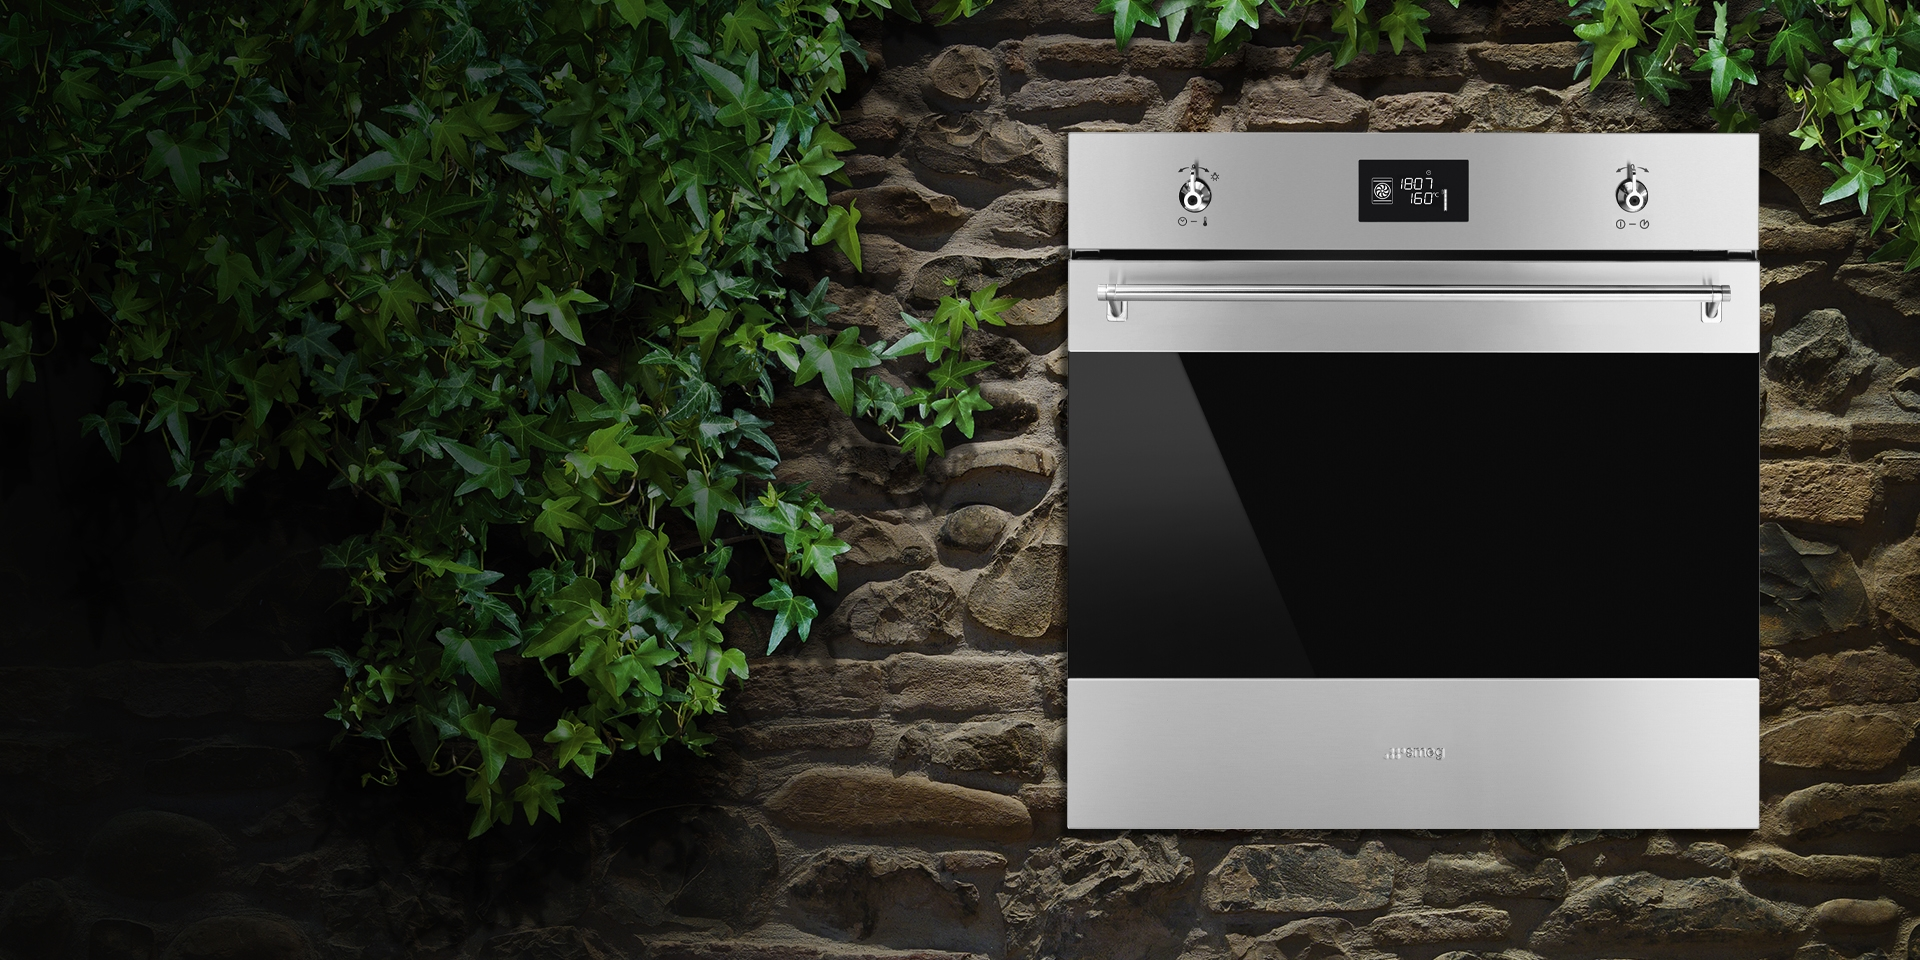
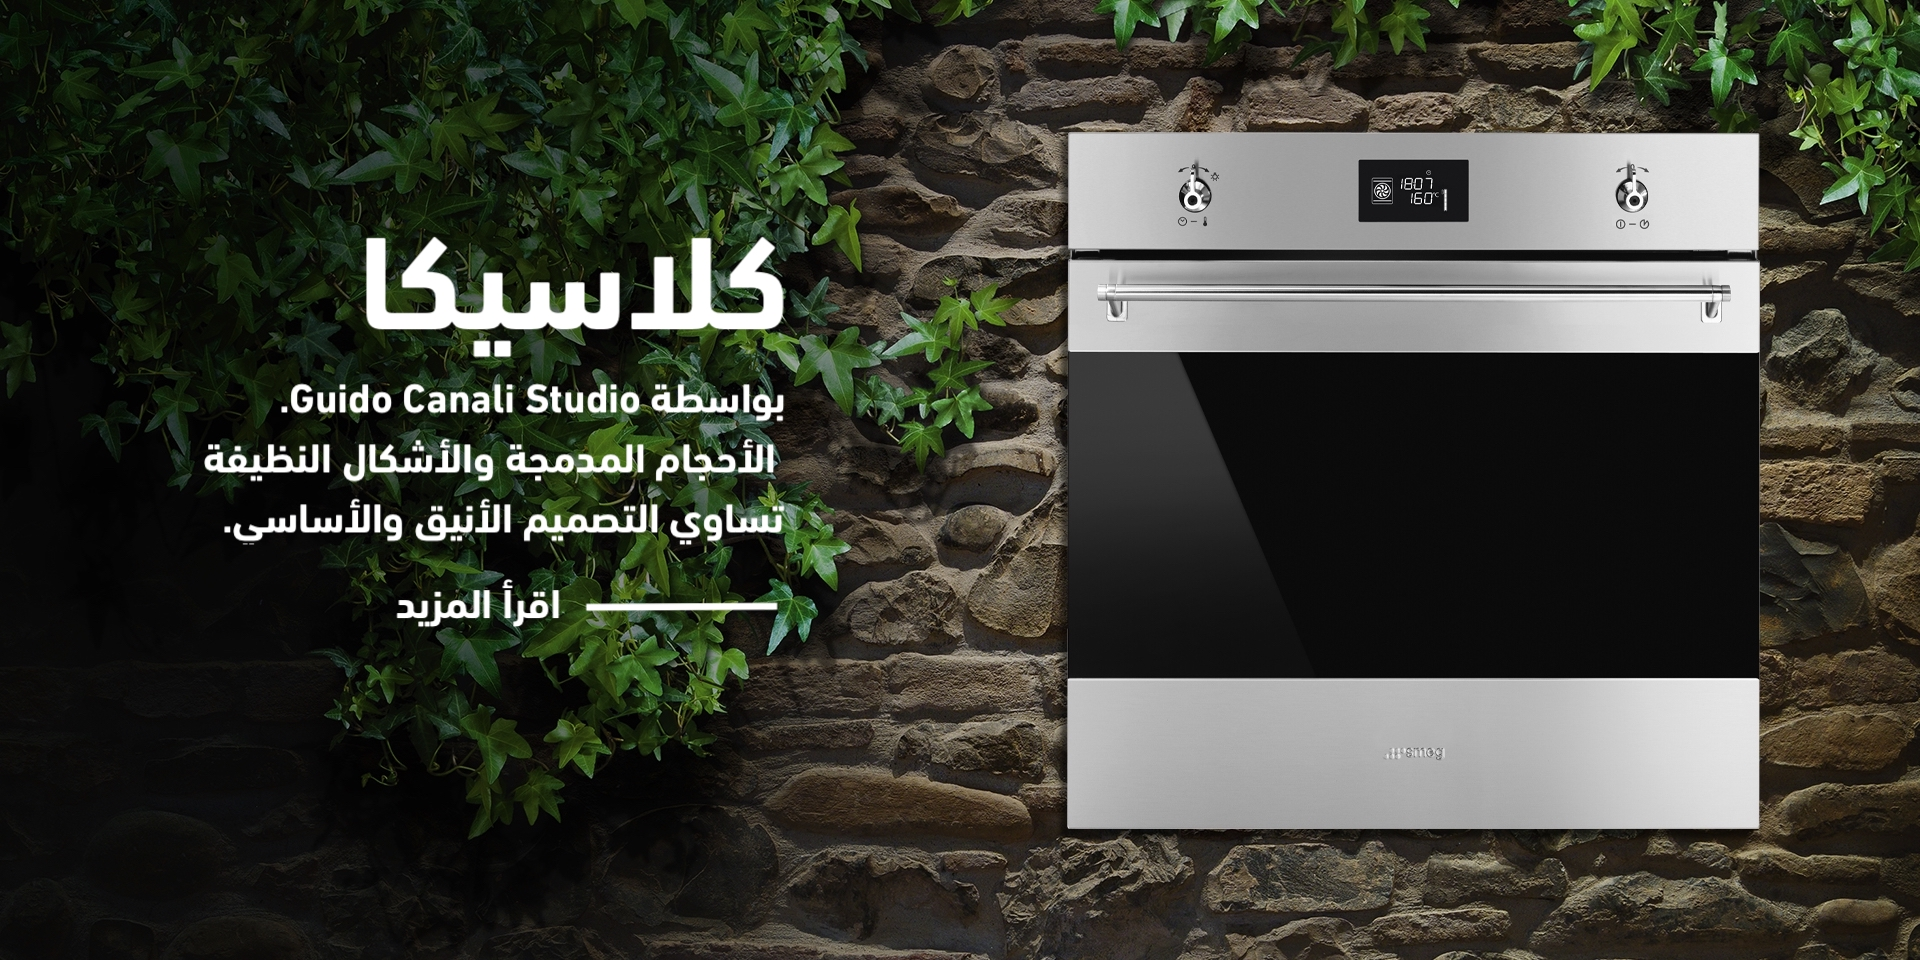
edits

Changed region(s): [[0.0938, 0.4062, 0.4062, 0.5625], [0.1875, 0.25, 0.4062, 0.375], [0.1875, 0.5938, 0.4062, 0.6562]]

diff --git a/grid.html b/grid.html
@@ -185,7 +185,7 @@
             </a>
           </div>
           <div class="product_desc">
-           <p class="title"> لوريم إيبسوم</p>
+           <p class="title"> أفران </p>
            <div class="list_content">
                <h4 class="bottom30">Sacrificial Chair Design </h4>
            </div>
@@ -200,7 +200,7 @@
             </a>
           </div>
           <div class="product_desc">
-           <p class="title">product name zyx </p>
+           <p class="title"> أفران مايكرويف </p>
            <div class="list_content">
                <h4 class="bottom30">Sacrificial Chair Design </h4>
            </div>
@@ -215,7 +215,7 @@
             </a>
           </div>
           <div class="product_desc">
-           <p class="title">product name zyx </p>
+           <p class="title"> شفاطة هواء </p>
            <div class="list_content">
                <h4 class="bottom30">Sacrificial Chair Design </h4>
            </div>
@@ -230,7 +230,7 @@
             </a>
           </div>
           <div class="product_desc">
-           <p class="title">product name zyx </p>
+           <p class="title"> ماكينات القهوة المدمجة </p>
            <div class="list_content">
                <h4 class="bottom30">Sacrificial Chair Design </h4>
            </div>
@@ -245,7 +245,7 @@
             </a>
           </div>
           <div class="product_desc">
-           <p class="title">product name zyx </p>
+           <p class="title"> مجففات مدمجة </p>
            <div class="list_content">
                <h4 class="bottom30">Sacrificial Chair Design </h4>
            </div>
@@ -260,7 +260,7 @@
             </a>
           </div>
           <div class="product_desc">
-           <p class="title">product name zyx </p>
+           <p class="title"> غاز </p>
            <div class="list_content">
                <h4 class="bottom30">Sacrificial Chair Design </h4>
            </div>
@@ -275,7 +275,7 @@
             </a>
           </div>
           <div class="product_desc">
-           <p class="title">product name zyx </p>
+           <p class="title"> فرن مع غاز </p>
            <div class="list_content">
                <h4 class="bottom30">Sacrificial Chair Design </h4>
            </div>
@@ -290,7 +290,7 @@
             </a>
           </div>
           <div class="product_desc">
-           <p class="title">product name zyx </p>
+           <p class="title"> شفاطة هواء </p>
            <div class="list_content">
                <h4 class="bottom30">Sacrificial Chair Design </h4>
            </div>

diff --git a/grid2.html b/grid2.html
@@ -184,7 +184,7 @@
             </a>
           </div>
           <div class="product_desc">
-           <p class="title"> لوريم إيبسوم</p>
+           <p class="title"> مطاحن القهوة  </p>
            <div class="list_content">
                <h4 class="bottom30">Sacrificial Chair Design </h4>
            </div>
@@ -199,7 +199,7 @@
             </a>
           </div>
           <div class="product_desc">
-           <p class="title">product name zyx </p>
+           <p class="title"> مكاينات قهوة</p>
            <div class="list_content">
                <h4 class="bottom30">Sacrificial Chair Design </h4>
            </div>
@@ -214,7 +214,7 @@
             </a>
           </div>
           <div class="product_desc">
-           <p class="title">product name zyx </p>
+           <p class="title"> خلاطات يدوية </p>
            <div class="list_content">
                <h4 class="bottom30">Sacrificial Chair Design </h4>
            </div>
@@ -229,7 +229,7 @@
             </a>
           </div>
           <div class="product_desc">
-           <p class="title">product name zyx </p>
+           <p class="title"> خلاطات </p>
            <div class="list_content">
                <h4 class="bottom30">Sacrificial Chair Design </h4>
            </div>
@@ -244,7 +244,7 @@
             </a>
           </div>
           <div class="product_desc">
-           <p class="title">product name zyx </p>
+           <p class="title"> رغوة الحليب </p>
            <div class="list_content">
                <h4 class="bottom30">Sacrificial Chair Design </h4>
            </div>
@@ -259,7 +259,7 @@
             </a>
           </div>
           <div class="product_desc">
-           <p class="title">product name zyx </p>
+           <p class="title"> محمصات </p>
            <div class="list_content">
                <h4 class="bottom30">Sacrificial Chair Design </h4>
            </div>
@@ -274,7 +274,7 @@
             </a>
           </div>
           <div class="product_desc">
-           <p class="title">product name zyx </p>
+           <p class="title"> عجنات </p>
            <div class="list_content">
                <h4 class="bottom30">Sacrificial Chair Design </h4>
            </div>
@@ -289,7 +289,7 @@
             </a>
           </div>
           <div class="product_desc">
-           <p class="title">product name zyx </p>
+           <p class="title"> كاتل </p>
            <div class="list_content">
                <h4 class="bottom30">Sacrificial Chair Design </h4>
            </div>

diff --git a/victoria.html b/victoria.html
@@ -143,20 +143,15 @@
     <div class="container">      <!-- edit out later -->
       <div class="row">
         <div class="col-sm-7">
-          <ul class="breadcrumb">
-            <li><a href="index.html">الرئيسية</a></li>
-            <li>خطوط جمالية</li>
-            <li>إكتشف خطوط تصنيع سميج الجمالية</li>
-            <li class="active">فيكتوريا</li>
-          </ul>
+         
         </div>
       </div>
     </div>
     <div class="header_content padding">
       <div class="row">
         <div class="col-md-12 text-center">
-           <h2 class="heading_space uppercase">creative design<strong>lighting furniture</strong></h2>
-           <h3 class="content_space">Typi non habent claritatem insitam.</h3>
+           <h2 class="heading_space uppercase"></h2>
+           <h3 class="content_space"></h3>
         </div>
       </div>
     </div>

diff --git a/classica.html b/classica.html
@@ -143,20 +143,15 @@
     <div class="container">      <!-- edit out later -->
       <div class="row">
         <div class="col-sm-7">
-          <ul class="breadcrumb">
-            <li><a href="index.html">الرئيسية</a></li>
-            <li>خطوط جمالية</li>
-            <li>إكتشف خطوط تصنيع سميج الجمالية</li>
-            <li class="active">كلاسيكا</li>
-          </ul>
+         
         </div>
       </div>
     </div>
     <div class="header_content padding">
       <div class="row">
         <div class="col-md-12 text-center">
-           <h2 class="heading_space uppercase">creative design<strong>lighting furniture</strong></h2>
-           <h3 class="content_space">Typi non habent claritatem insitam.</h3>
+           <h2 class="heading_space uppercase"></h2>
+           <h3 class="content_space"></h3>
         </div>
       </div>
     </div>

diff --git a/index.html b/index.html
@@ -140,19 +140,16 @@
       <!-- Wrapper for slides -->
       <div class="carousel-inner">
         <div class="item active">
-          <img src="images/home2-banner1.jpg">
-          <div class="carousel-caption">
-            <h3>lorem ipsum</h3>
-            <p>Lorem ipsum dolor, sit amet consectetur adipisicing elit.</p>
-          </div>
+          <img src="images/slider.jpg">
+          
         </div>
     
         <div class="item">
-          <img src="images/home2-banner1.jpg">
+          <img src="images/slider.jpg">
         </div>
     
         <div class="item">
-          <img src="images/home2-banner1.jpg">
+          <img src="images/slider.jpg">
         </div>
       </div>
     </div>

diff --git a/css/style.css b/css/style.css
@@ -2804,6 +2804,7 @@ footer.plain_footer{
 .majorBG,.smallBG,.classicaBG,.victoriaBG,.colonialBG{
 	background-position:center center;
 	background-size:cover;
+	height: 650px;
 }
 
 
